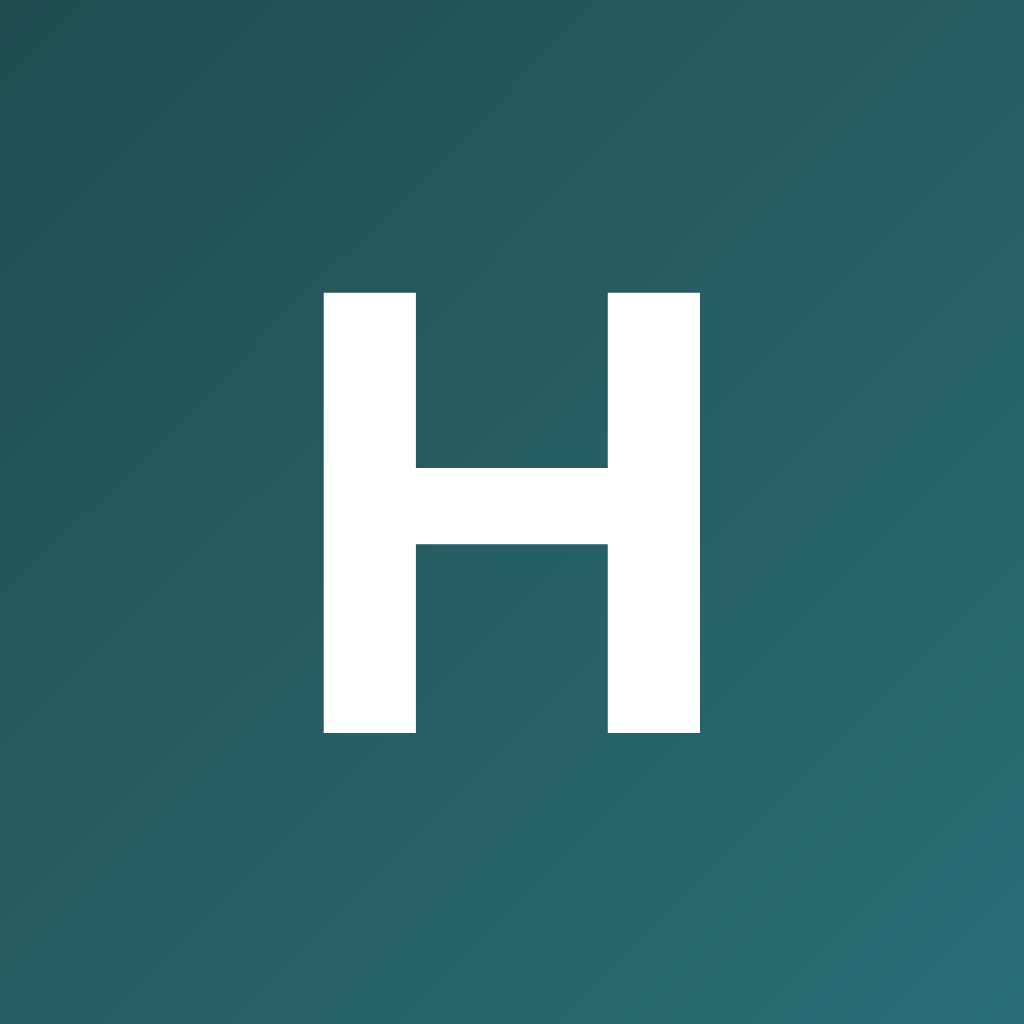
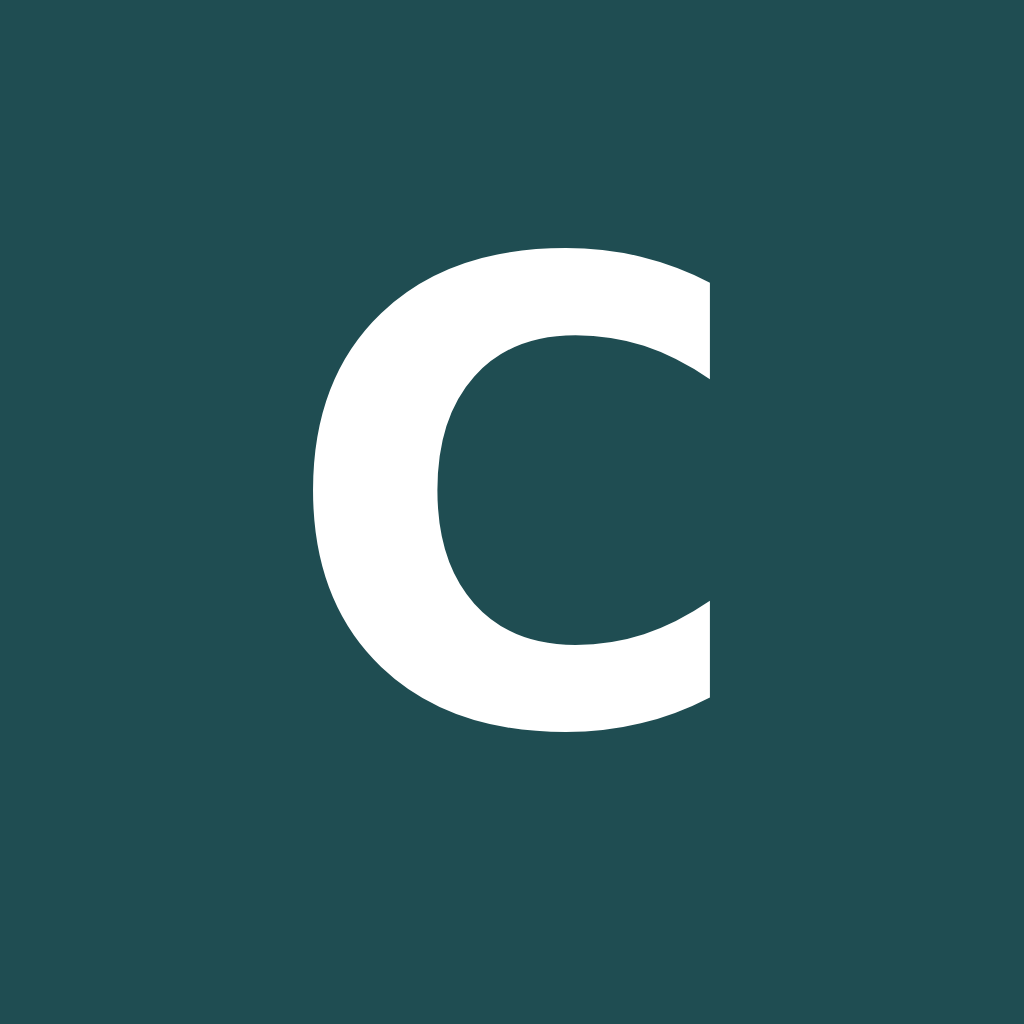
Renombrar la app a "Clara" (nombre, textos e icono) (#27)
- app.json: name "Clara", slug/scheme "clara". Se mantienen bundleId/package
  com.homie.app, el databaseId "homie" y los IDs de colección (backend intacto).
- Textos de UI y notificaciones: login, perfil, mensaje de invitación y resumen
  de luz ahora dicen "Clara". Logo de login "H" → "C".
- Icono regenerado (icon.png / adaptive.png): "C" blanca sobre el acento teal.

Claude-Session: https://claude.ai/code/session_01ELXbDhwviLqx315N9FRHTY

Changed region(s): [[0.2812, 0.2188, 1.0, 1.0]]

diff --git a/mobile/app/login.tsx b/mobile/app/login.tsx
@@ -49,9 +49,9 @@ export default function Login() {
               className="rounded-card items-center justify-center mb-3"
               style={{ width: 64, height: 64, backgroundColor: t.accent }}
             >
-              <Text className="text-white text-3xl font-bold">H</Text>
+              <Text className="text-white text-3xl font-bold">C</Text>
             </View>
-            <Text className="text-[28px] font-bold text-label">Homie</Text>
+            <Text className="text-[28px] font-bold text-label">Clara</Text>
             <Text className="text-[14px] text-secondary mt-1">
               {mode === "login" ? "Inicia sesión en tu hogar" : "Crea tu cuenta"}
             </Text>

diff --git a/mobile/components/InviteModal.tsx b/mobile/components/InviteModal.tsx
@@ -43,9 +43,9 @@ export function InviteModal({
   };
 
   const message = (inv: Invite) =>
-    `¡Únete a nuestro hogar "${hogarName}" en Homie! 🏠\n\n` +
+    `¡Únete a nuestro hogar "${hogarName}" en Clara! 🏠\n\n` +
     `Ábrelo aquí: ${inv.url}\n` +
-    `O abre la app Homie y mete este código: ${inv.code}`;
+    `O abre la app Clara y mete este código: ${inv.code}`;
 
   const share = async () => {
     if (!invite) return;

diff --git a/mobile/app/(tabs)/luz.tsx b/mobile/app/(tabs)/luz.tsx
@@ -340,7 +340,7 @@ function AlertsCard({ today, tomorrow }: { today: number[]; tomorrow: number[] |
       20,
       30,
       "📊 Precios de mañana",
-      "Ya está publicado el PVPC de mañana. Abre Homie y mira las mejores horas.",
+      "Ya está publicado el PVPC de mañana. Abre Clara y mira las mejores horas.",
     );
     await saveGroupIds("summary", [id]);
   };

diff --git a/mobile/app/join.tsx b/mobile/app/join.tsx
@@ -7,7 +7,7 @@ import { useHogar } from "@/lib/hogar";
 import { redeemInvite } from "@/lib/invites";
 import { useTheme } from "@/theme/theme";
 
-// Pantalla a la que lleva el enlace de invitación (deep link homie://join?...).
+// Pantalla a la que lleva el enlace de invitación (deep link clara://join?...).
 export default function Join() {
   const t = useTheme();
   const params = useLocalSearchParams<{

diff --git a/mobile/app/perfil.tsx b/mobile/app/perfil.tsx
@@ -140,7 +140,7 @@ export default function Perfil() {
         </View>
 
         <Text className="text-center text-[12px] text-tertiary mt-4">
-          Homie v{Constants.expoConfig?.version ?? "0.1.0"} · hecho con ♥
+          Clara v{Constants.expoConfig?.version ?? "0.1.0"} · hecho con ♥
         </Text>
       </ScrollView>
 